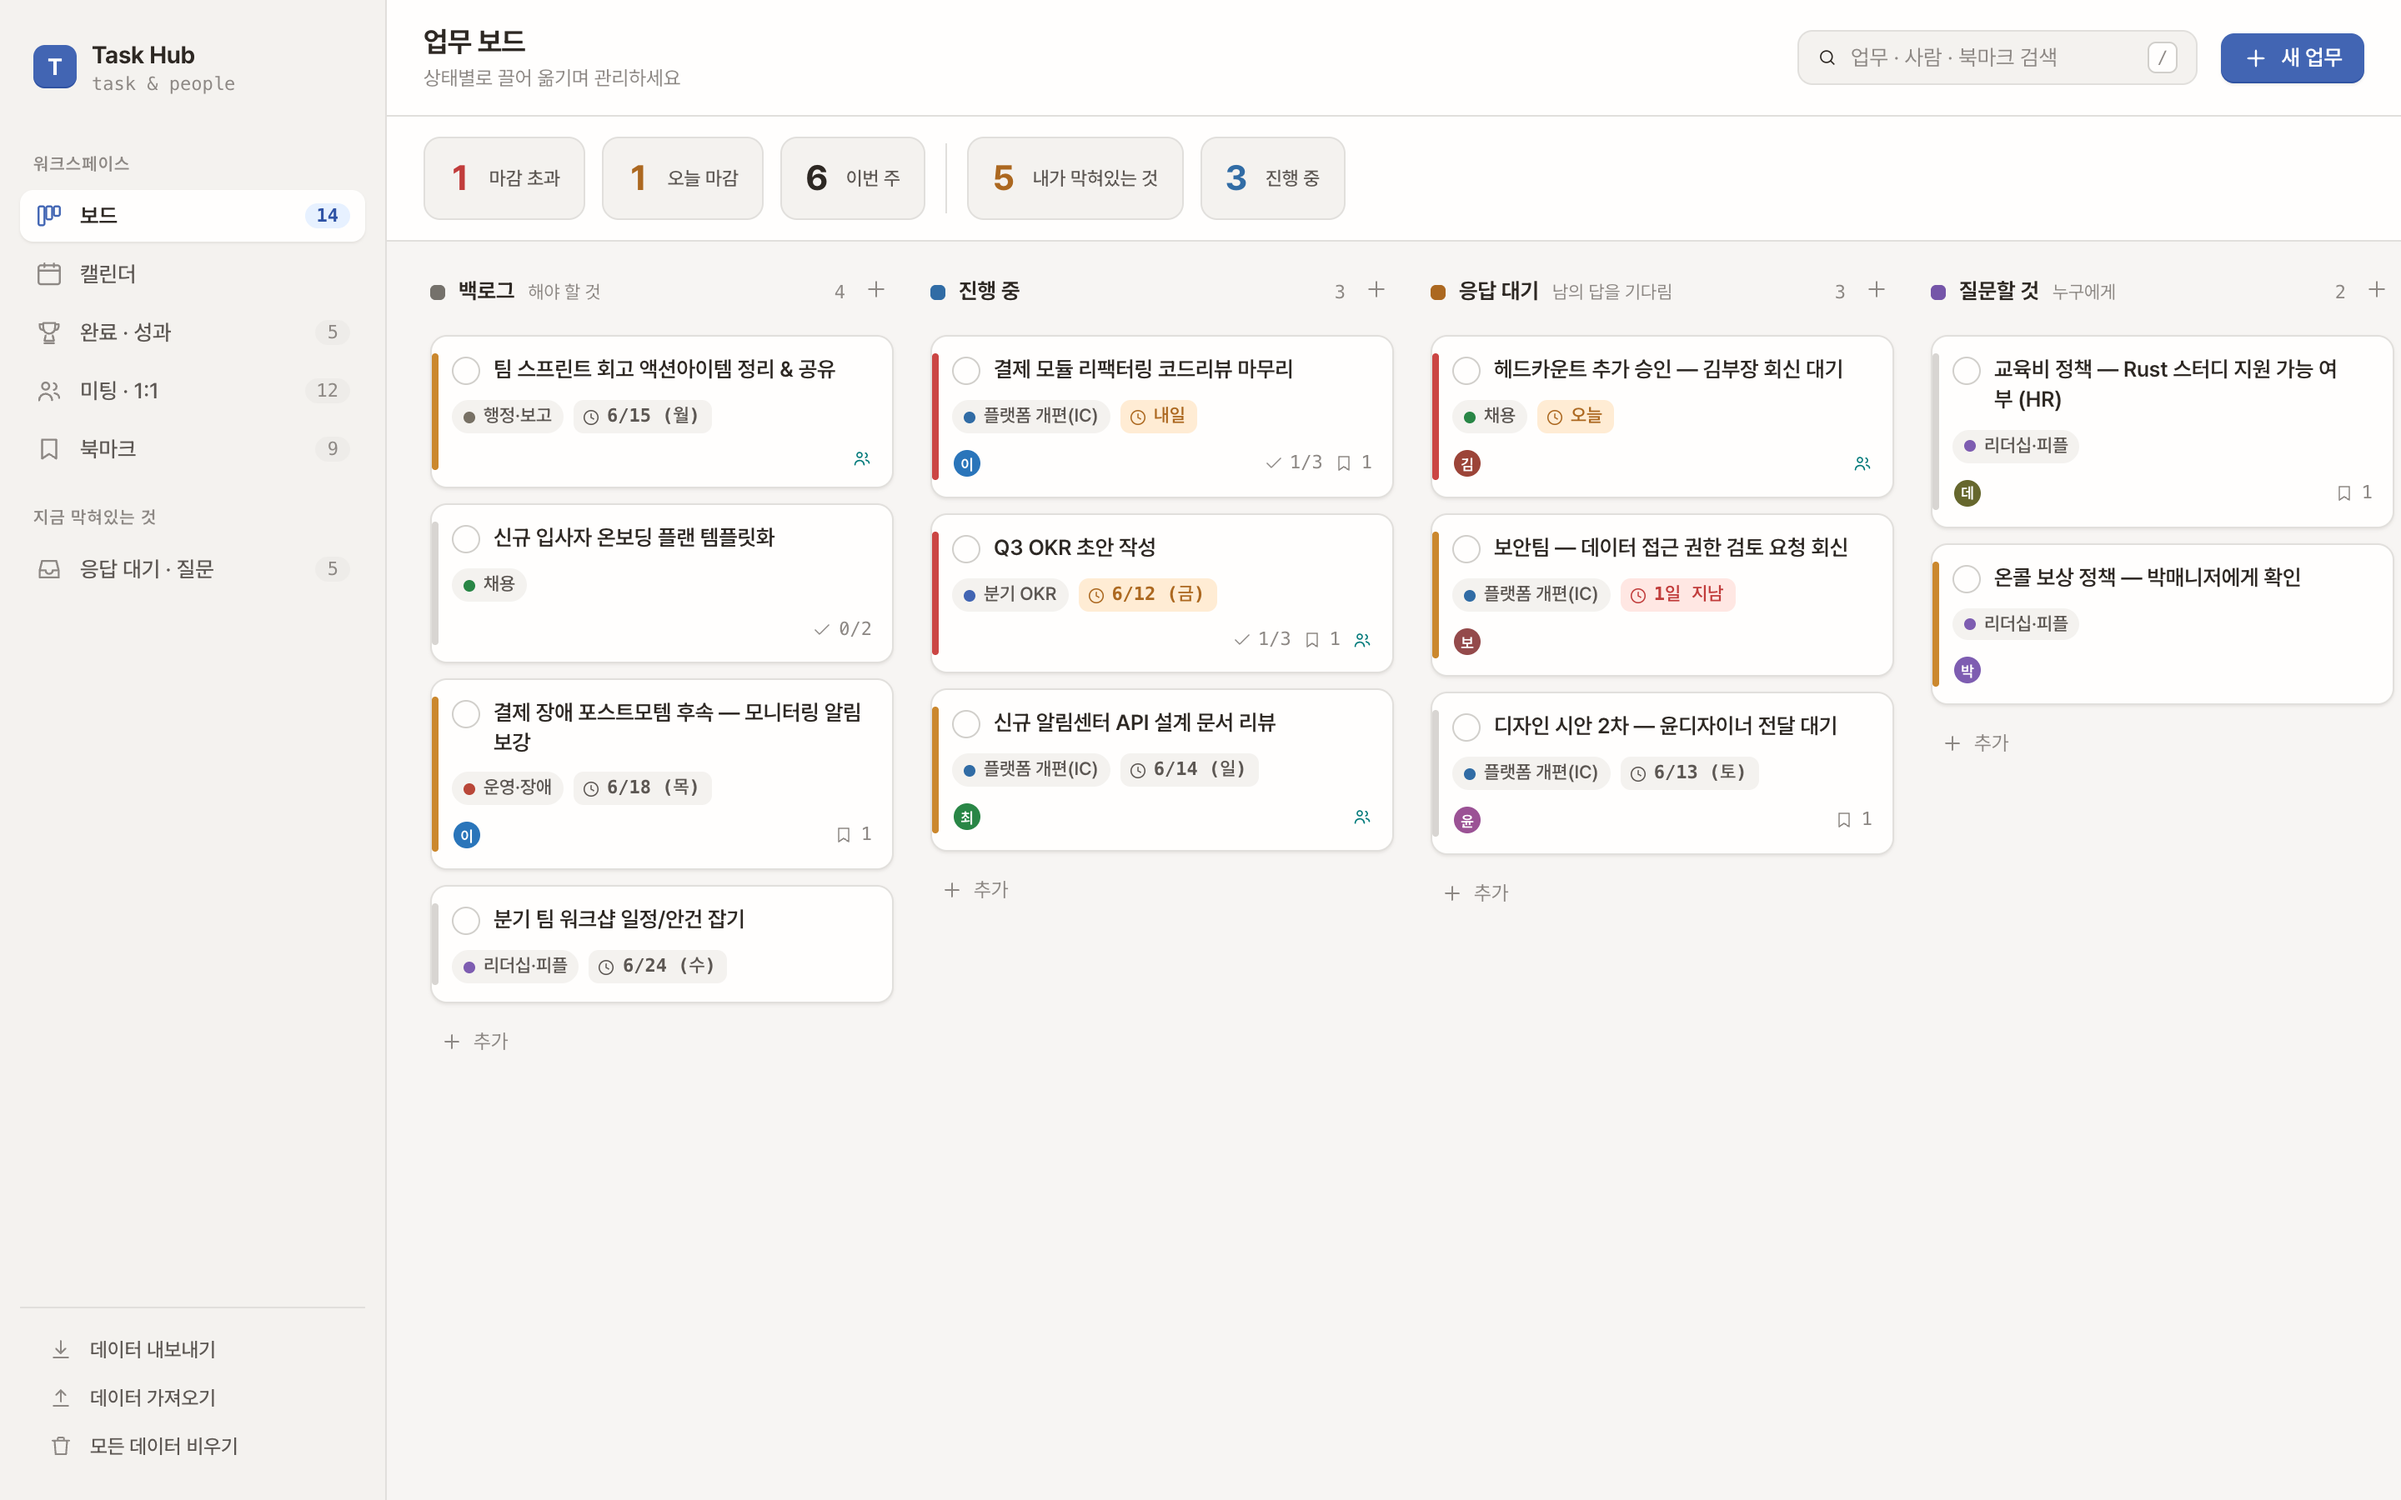
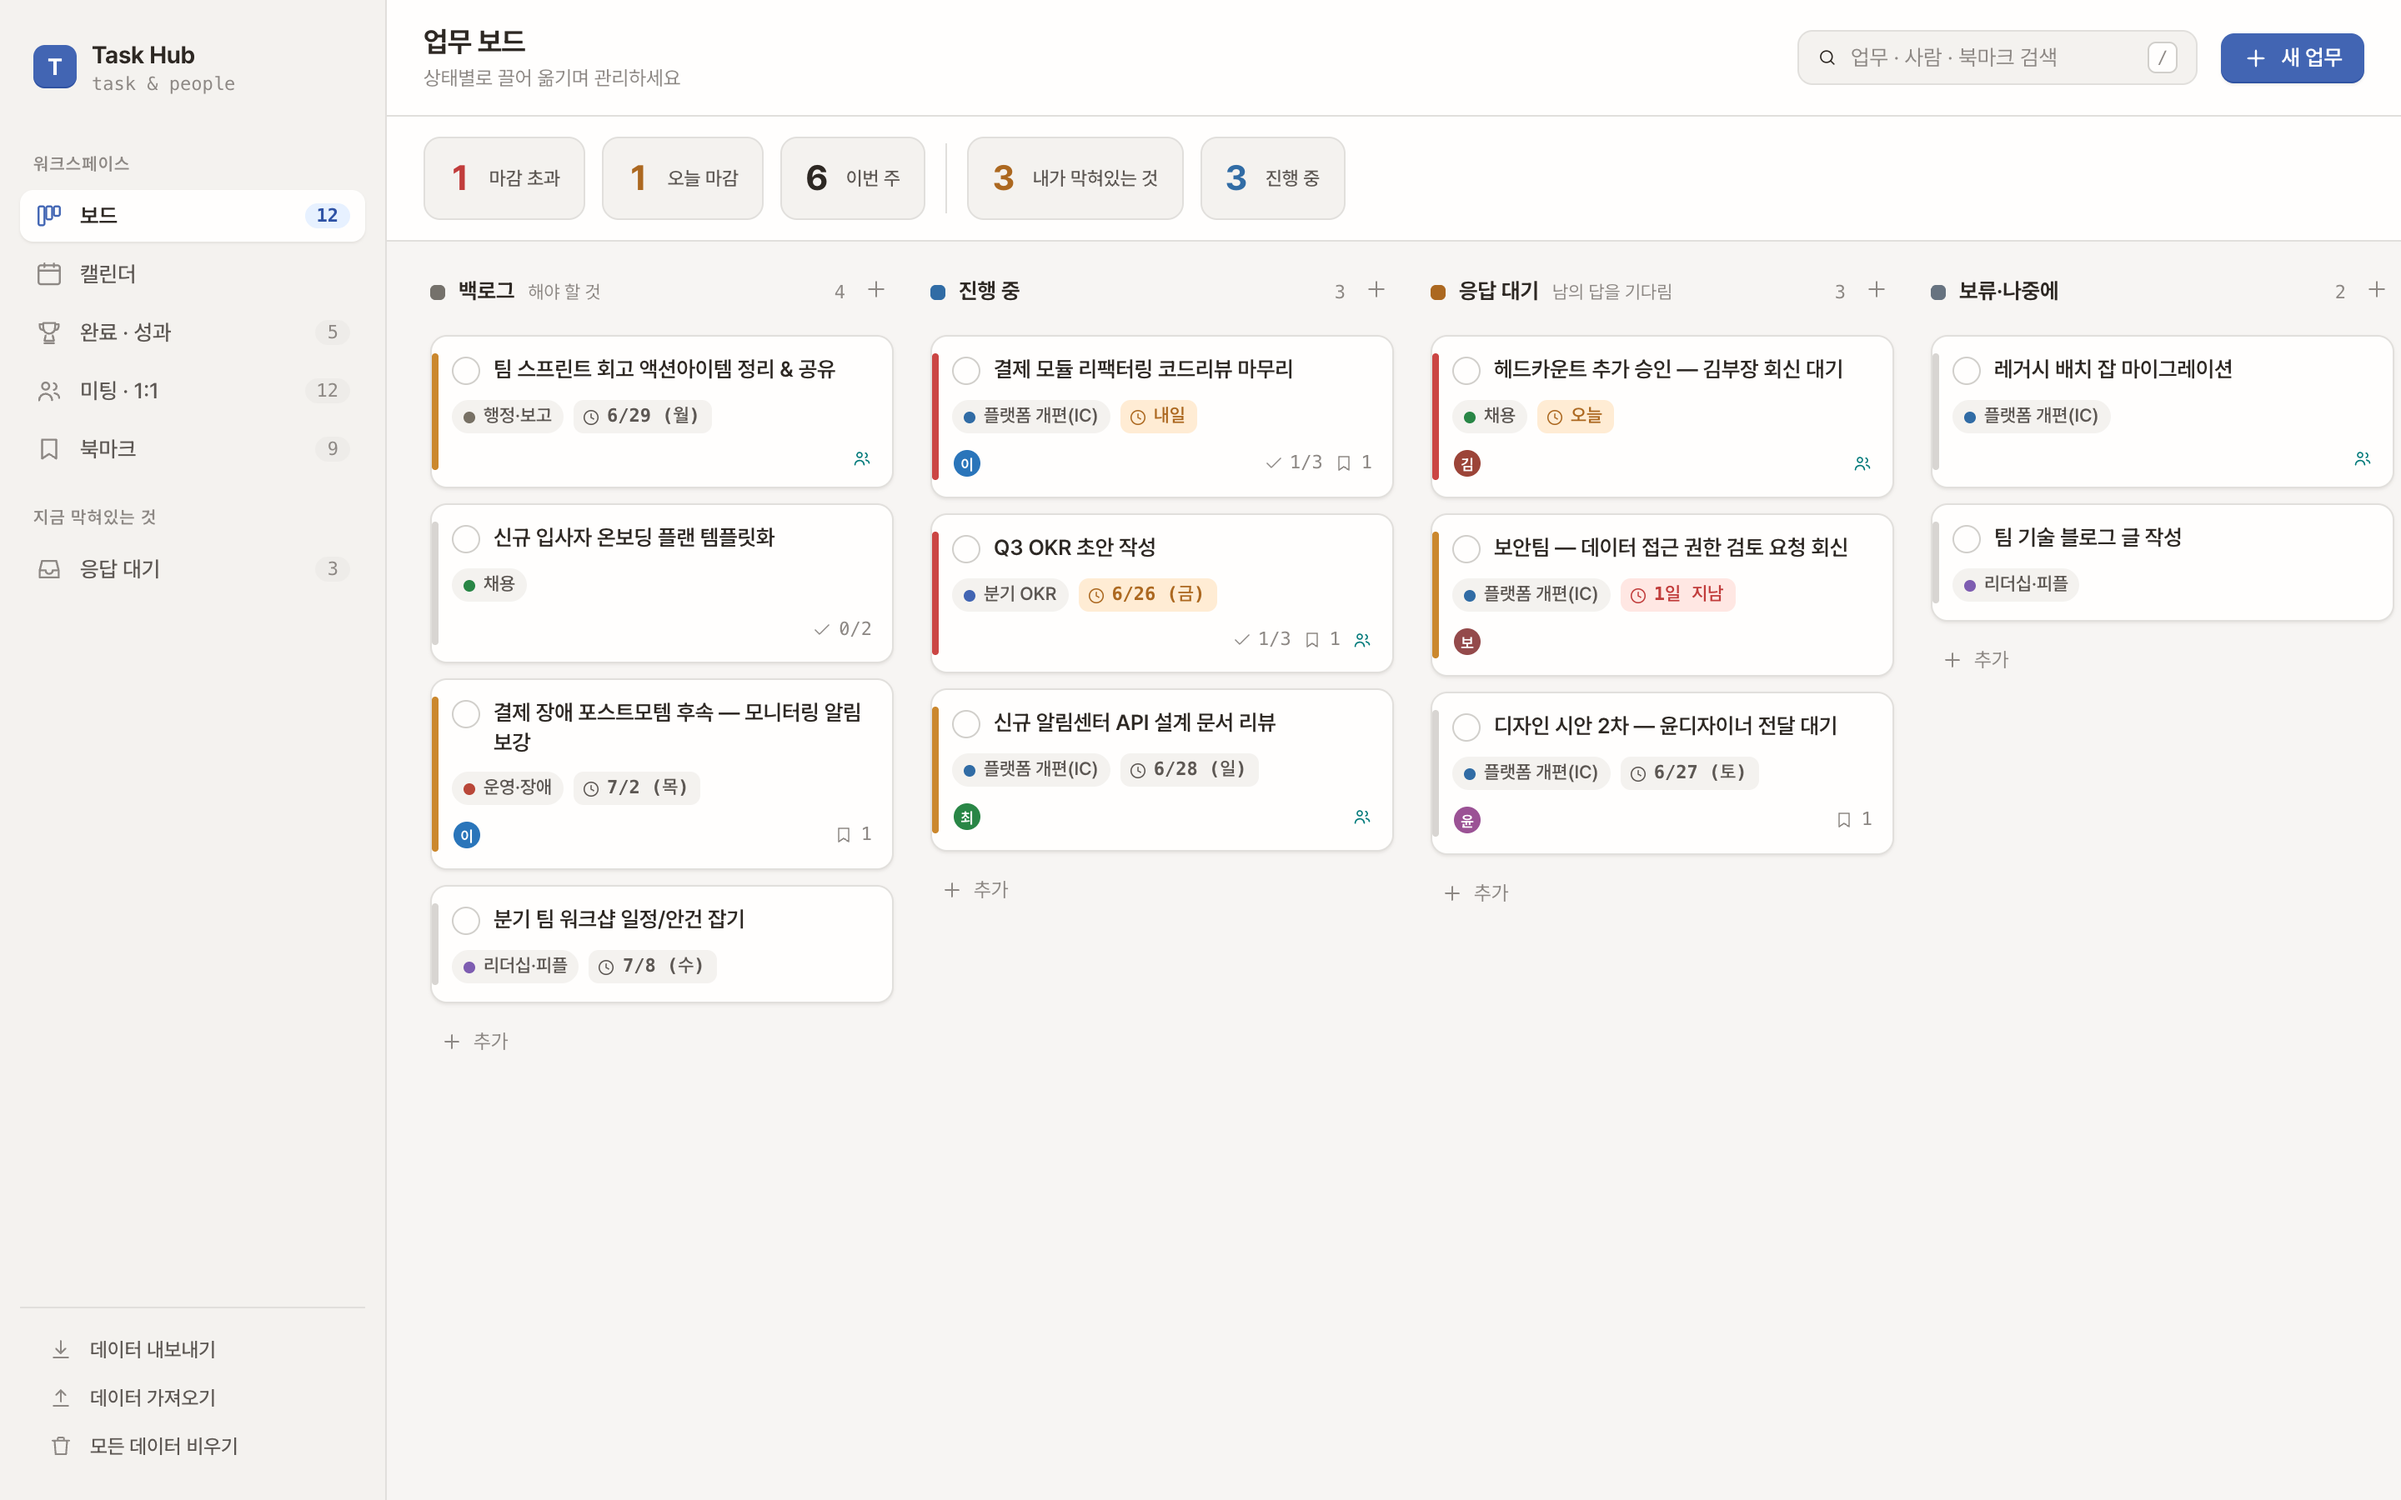
Remove '질문할 것' board column
- Drop the toask status column and its sample tasks
- Migrate away any existing toask tasks on load (per request, delete them)
- Blocked filter/count and sidebar now cover only '응답 대기'
- Regenerate README screenshots to reflect the 5-column board

Changed region(s): [[0.8125, 0.1867, 0.9688, 0.4667], [0.9688, 0.3111, 1.0, 0.3422], [0.25, 0.4978, 0.2812, 0.5289]]

diff --git a/src/store.js b/src/store.js
@@ -35,7 +35,6 @@ export const COLUMNS = [
   { id: "backlog", label: "백로그", hint: "해야 할 것", color: "var(--st-backlog)", bg: "var(--st-backlog-bg)" },
   { id: "inprogress", label: "진행 중", hint: "", color: "var(--st-prog)", bg: "var(--st-prog-bg)" },
   { id: "waiting", label: "응답 대기", hint: "남의 답을 기다림", color: "var(--st-wait)", bg: "var(--st-wait-bg)" },
-  { id: "toask", label: "질문할 것", hint: "누구에게", color: "var(--st-ask)", bg: "var(--st-ask-bg)" },
   { id: "hold", label: "보류·나중에", hint: "", color: "var(--st-hold)", bg: "var(--st-hold-bg)" },
   { id: "done", label: "완료", hint: "", color: "var(--st-done)", bg: "var(--st-done-bg)" },
 ];
@@ -158,10 +157,6 @@ const tasks = [
   { id: uid(), title: "보안팀 — 데이터 접근 권한 검토 요청 회신", status: "waiting", priority: "med", due: d(-1), people: ["보안팀"], project: "p_platform", meetingId: null, notes: "마이그레이션 위해 prod read 권한 필요. 티켓 SEC-1203. 어제까지 받기로 했는데 지연.", checklist: [], bookmarkIds: [], order: 1 },
   { id: uid(), title: "디자인 시안 2차 — 윤디자이너 전달 대기", status: "waiting", priority: "low", due: d(3), people: ["윤디자이너"], project: "p_platform", meetingId: null, notes: "알림 설정 화면. 목요일 공유 예정.", checklist: [], bookmarkIds: ["b_figma"], order: 2 },
 
-  // 질문할 것
-  { id: uid(), title: "교육비 정책 — Rust 스터디 지원 가능 여부 (HR)", status: "toask", priority: "low", due: null, people: ["데이터팀"], project: "p_lead", meetingId: null, notes: "이선임이 요청. HR 위키 확인 후 안 되면 직접 문의.", checklist: [], bookmarkIds: ["b_hr"], order: 0 },
-  { id: uid(), title: "온콜 보상 정책 — 박매니저에게 확인", status: "toask", priority: "med", due: null, people: ["박매니저"], project: "p_lead", meetingId: null, notes: "다른 팀은 야간 온콜 어떻게 보상하는지. 우리 팀 정책 개선 참고용.", checklist: [], bookmarkIds: [], order: 1 },
-
   // 백로그
   { id: uid(), title: "팀 스프린트 회고 액션아이템 정리 & 공유", status: "backlog", priority: "med", due: d(5), people: [], project: "p_admin", meetingId: "m_weekly", notes: "QA 병목 개선 액션 포함.", checklist: [], bookmarkIds: [], order: 0 },
   { id: uid(), title: "신규 입사자 온보딩 플랜 템플릿화", status: "backlog", priority: "low", due: null, people: [], project: "p_hire", meetingId: null, notes: "최주임 온보딩 경험 토대로 체크리스트 표준화.", checklist: [{ id: uid(), text: "1주차 셋업 체크리스트", done: false }, { id: uid(), text: "30/60/90 목표 템플릿", done: false }], bookmarkIds: [], order: 1 },
@@ -207,12 +202,18 @@ export const defaultState = {
   quarter: "2026 Q2",
 };
 
+// 폐지된 'toask'(질문할 것) 컬럼의 잔여 카드를 제거
+function migrate(state) {
+  state.tasks = state.tasks.filter((t) => t.status !== "toask");
+  return state;
+}
+
 export function load() {
   try {
     const raw = localStorage.getItem(STORE_KEY);
     if (raw) {
       const parsed = JSON.parse(raw);
-      if (parsed && parsed.version === defaultState.version) return parsed;
+      if (parsed && parsed.version === defaultState.version) return migrate(parsed);
     }
   } catch (e) { /* ignore */ }
   return JSON.parse(JSON.stringify(defaultState));

diff --git a/src/App.jsx b/src/App.jsx
@@ -181,7 +181,7 @@ export default function App() {
     over: active.filter((t) => t.due && dayDiff(t.due) < 0).length,
     today: active.filter((t) => t.due && dayDiff(t.due) === 0).length,
     week: active.filter((t) => t.due && dayDiff(t.due) >= 0 && dayDiff(t.due) <= 7).length,
-    blocked: state.tasks.filter((t) => t.status === "waiting" || t.status === "toask").length,
+    blocked: state.tasks.filter((t) => t.status === "waiting").length,
     progress: state.tasks.filter((t) => t.status === "inprogress").length,
   };
   const navCount = (id) => {
@@ -219,7 +219,7 @@ export default function App() {
       React.createElement("div", { className: "nav-group-label" }, "지금 막혀있는 것"),
       React.createElement("button", { className: "nav-item" + (filter === "blocked" && view === "board" ? " active" : ""), onClick: () => goFilter("blocked") },
         React.createElement(Icons.Inbox, { size: 17 }),
-        React.createElement("span", null, "응답 대기 · 질문"),
+        React.createElement("span", null, "응답 대기"),
         React.createElement("span", { className: "count" }, stats.blocked)),
 
       React.createElement("div", { className: "sidebar-foot" },

diff --git a/src/BoardView.jsx b/src/BoardView.jsx
@@ -10,7 +10,7 @@ function matchesFilter(t, filter) {
   if (filter === "today") return t.due && dayDiff(t.due) === 0 && t.status !== "done";
   if (filter === "week") return t.due && dayDiff(t.due) >= 0 && dayDiff(t.due) <= 7 && t.status !== "done";
   if (filter === "over") return t.due && dayDiff(t.due) < 0 && t.status !== "done";
-  if (filter === "blocked") return (t.status === "waiting" || t.status === "toask");
+  if (filter === "blocked") return t.status === "waiting";
   return true;
 }
 
